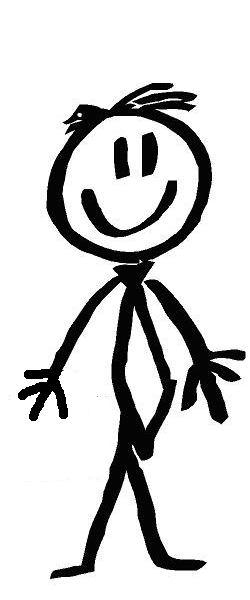
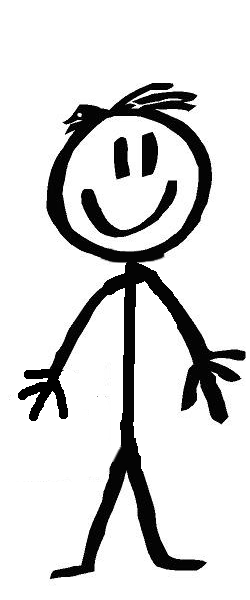
Profession images

Changed region(s): [[0.42, 0.42, 0.728, 0.78], [0.644, 0.48, 0.7, 0.54]]

diff --git a/app/assets/stylesheets/people.css.scss b/app/assets/stylesheets/people.css.scss
@@ -38,7 +38,10 @@
     .accessories {
       img {
         position: absolute;
+        width: 100%;
+        height: 100%;
       }
+
       .hat {
         width: 100%;
       }
@@ -66,6 +69,10 @@
       height: 240px;
     }
     .accessories {
+      img {
+        width: 100px;
+        height: 240px;
+      }
       .hat {
         width: 100%;
       }
